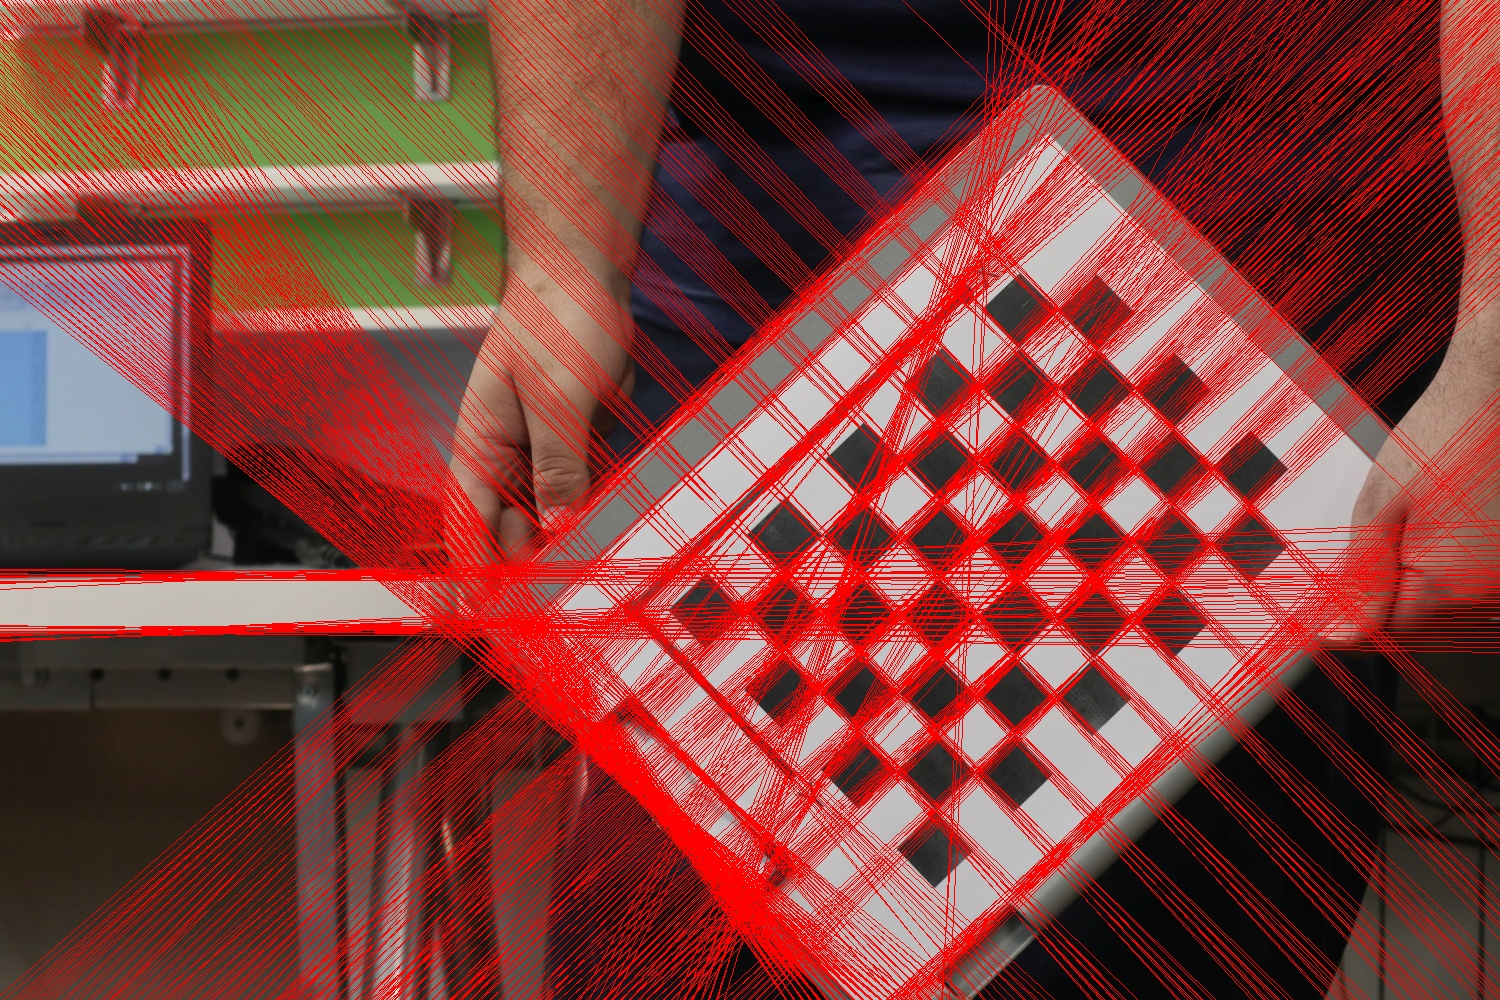
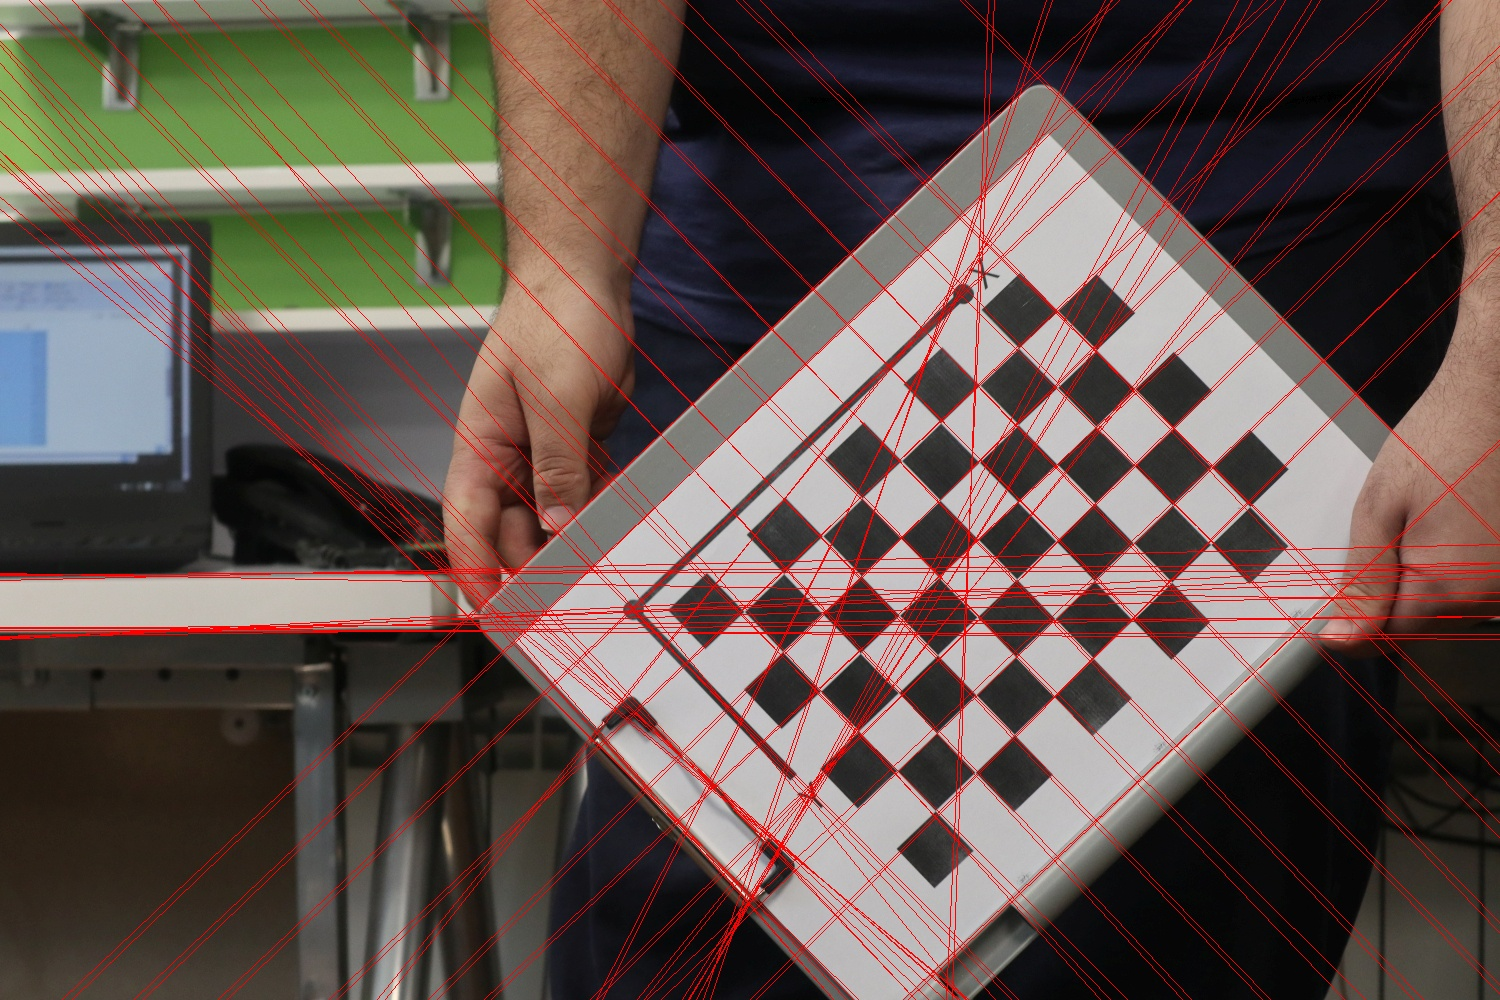
local maximum added - detected lines reduced

diff --git a/HW3/q1.py b/HW3/q1.py
@@ -30,7 +30,7 @@ def houghTran(img_edges, len_level, angle_level, thr):
 
     # check every edge candidate for a line
     for i in range(M):
-        # print("In stage x={}".format(i))
+        print("In stage x={}".format(i))
         for j in range(N):
             if img_edges[i, j] == 255:
                 x = (j - N//2) / (N//2)
@@ -90,8 +90,8 @@ def convertToXY(rho, theta, M, N):
     return (pt1.astype(int), pt2.astype(int))
 #/ ------------------------- MAIN ------------------------ /#
 
-
 img = cv2.imread('./im02.jpg', cv2.IMREAD_COLOR)
+"""
 # utl.showImg(img, 1)
 img_edges = cv2.Canny(img, 100, 250)
 
@@ -102,22 +102,28 @@ img_edges[img_edges <= thr] = 0
 # utl.showImg(img_edges, 1)
 
 M, N = img_edges.shape
-angle_num = 300
-len_num = 300
+angle_num = 400
+len_num = 400
 thr = 1e-2
 
+print("Finding hough space representation ...")
 voting_mat, len_angle_spc = houghTran(img_edges, len_num, angle_num, thr)
 hough_space = utl.scaleIntensities(voting_mat)
+"""
+print(len(np.nonzero(voting_mat >= 0.4*np.amax(voting_mat))[0]))
 
+max_indices = utl.findLocalMax(voting_mat, 0.4*np.amax(voting_mat), 0.1)
+print(max_indices.shape)
+#utl.show()
 cv2.imwrite("hough_space.jpg", hough_space)
 
 # utl.showRange(voting_mat, 'R')
+print("Finding local maximums and drawing lines ...")
+for i in range(max_indices.shape[1]):
+    pt1, pt2 = convertToXY(len_angle_spc[max_indices[0, i], max_indices[1, i], 0], 
+                           len_angle_spc[max_indices[0, i], max_indices[1, i], 1], N, M)
+    cv2.line(img, (pt1[0], pt1[1]), (pt2[0], pt2[1]), (0, 0, 255), 1)
 
-# for i in range(voting_mat.shape[0]):
-#     for j in range(voting_mat.shape[1]):
-#         if voting_mat[i, j] >= 0.4*np.amax(voting_mat):
-#             pt1, pt2 = convertToXY(len_angle_spc[i, j, 0], len_angle_spc[i, j, 1], N, M)
-#             cv2.line(img, (pt1[0], pt1[1]), (pt2[0], pt2[1]), (0, 0, 255), 1)
-
-# # utl.showImg(img, 1, 'found')
-# cv2.imwrite('lines-found.jpg', img)
+#utl.showImg(img, 1, 'found')
+print("Done!")
+cv2.imwrite('lines-found.jpg', img)

diff --git a/HW3/utils.py b/HW3/utils.py
@@ -194,3 +194,40 @@ def findMinCut(matrix, mode="COL"):
         path = path.T
         path_mat = path_mat.T
         return path.reshape(path.shape[0], 1)
+
+def findLocalMax(mat, level_thr, noise_power):
+    "Finds local maximum of matrix, ignores values less than threshold"
+    "Noise is added to img to eliminate value equalities"
+    
+    M, N = mat.shape
+    # append zeros to left, right, top and bottom of matrix
+    ext_mat  = np.zeros((M+2, N+2), dtype=np.float64)
+    ext_mat[1:-1, 1:-1] = mat
+    less_indices = np.nonzero(ext_mat <= level_thr)
+    
+    noise = np.random.normal(0, noise_power, ext_mat.shape)
+    # add noise:
+    ext_mat += noise
+    # ignore values less than threshold
+    ext_mat[less_indices] = 0
+    # find local maximum:
+    x_max = []
+    y_max = []
+    for i in range(M):
+        for j in range(N):
+            # compare with all 8 neigbours
+            if (ext_mat[i+1, j+1] > ext_mat[i, j] and
+                    ext_mat[i+1, j+1] > ext_mat[i, j+1] and
+                    ext_mat[i+1, j+1] > ext_mat[i, j+2] and
+                    ext_mat[i+1, j+1] > ext_mat[i+1, j] and
+                    ext_mat[i+1, j+1] > ext_mat[i+1, j+2] and
+                    ext_mat[i+1, j+1] > ext_mat[i+2, j] and
+                    ext_mat[i+1, j+1] > ext_mat[i+2, j+1] and
+                    ext_mat[i+1, j+1] > ext_mat[i+2, j+2]) :
+                x_max.append(i)
+                y_max.append(j)
+    return np.array([x_max, y_max])
+    
+    
+    
+    

diff --git a/HW3/q2.py b/HW3/q2.py
@@ -163,14 +163,14 @@ def updateTexture(syn_tex, tex, M_p, N_p, M_i, N_i,
 
 #/ ------------------- MAIN --------------- /#
 
-texture = cv2.imread('./Textures/texture01.jpg', cv2.IMREAD_COLOR)
+texture = cv2.imread('./Textures/texture03.jpg', cv2.IMREAD_COLOR)
 print("Image loaded successfully, starting algorithm ...")
 # PARAMETERS:
 
 # texture size:
 M_t, N_t, _ = texture.shape
 # synthesized texture size:
-M_i, N_i = 1000, 1000
+M_i, N_i = 2500, 2500
 syn_texture = np.zeros((M_i, N_i, 3), dtype=np.uint8)
 # patch size
 M_p, N_p = 100, 100
@@ -216,4 +216,4 @@ for i in range((M_i - M_p) // (M_p - x_thr) + 1):
                         M_i, N_i, x_start, x_end, y_start, y_end,
                         x_thr, y_thr, random_select)
             
-cv2.imwrite('texture1.jpg', syn_texture)
+cv2.imwrite('texture3.jpg', syn_texture)
